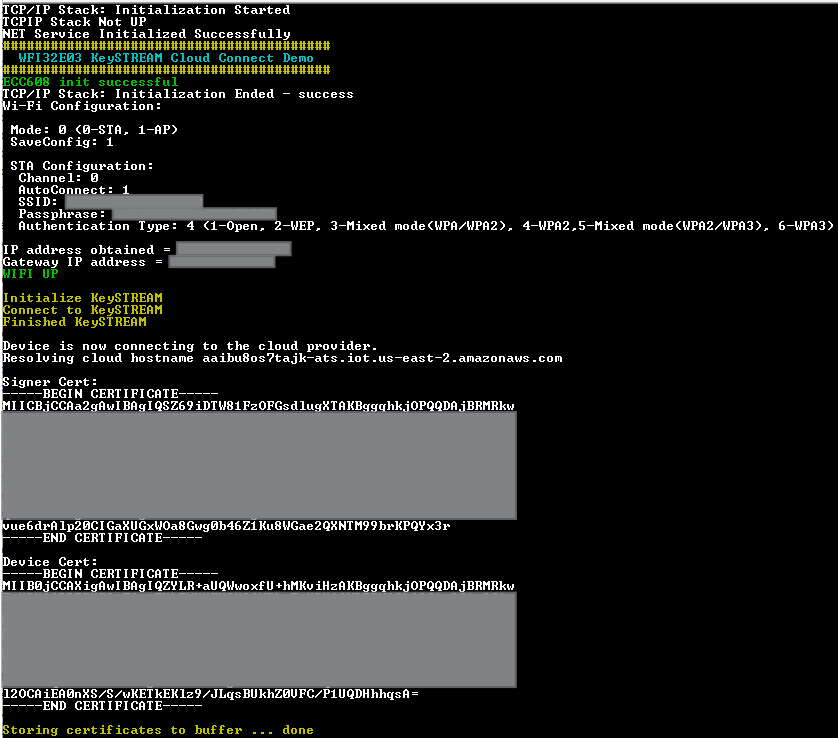
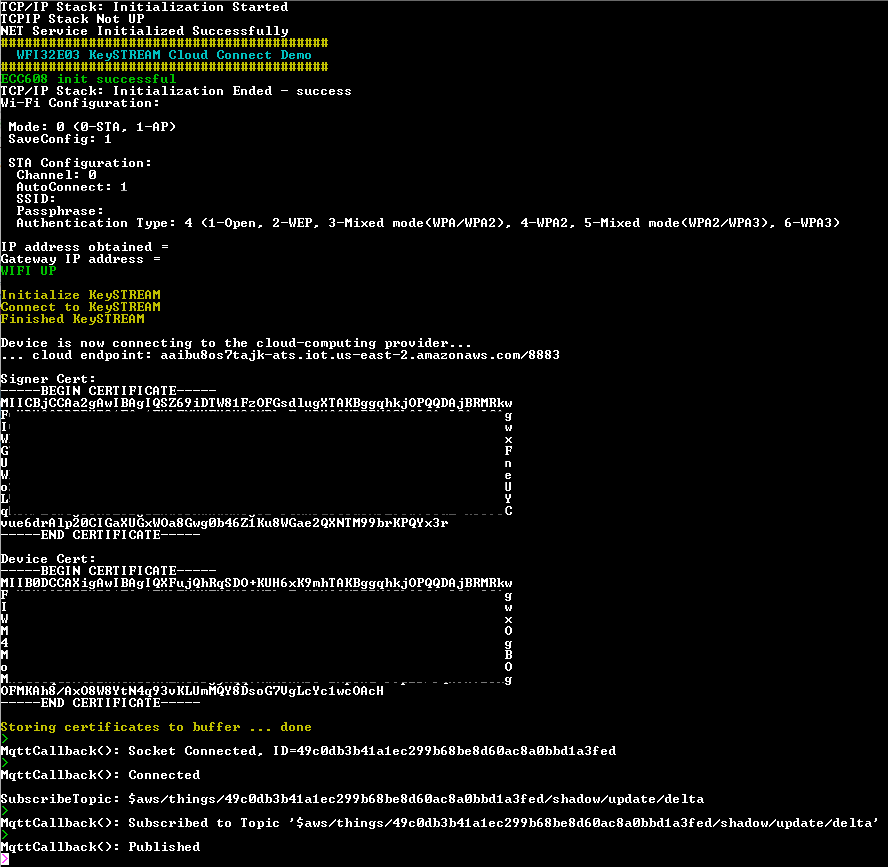
added new pictures updated documentation

Changed region(s): [[0.0, 0.0, 1.0, 1.0], [0.5895, 0.2493, 0.9308, 0.3117], [0.9308, 0.2805, 0.9928, 0.3117]]

diff --git a/README.md b/README.md
@@ -32,6 +32,7 @@ Checkout the <a href="https://microchipsupport.force.com/s/" target="_blank">Tec
 - [Software Setup](#software-setup)
     - [Development Tools](#development-tools)
     - [MCC Content Library](#mcc-content-library)
+    - [MQTT-Explorer](#mqtt-explorer)
     - [others](#others)
 - [Firmware](#firmware)
 - [Run the Demo](#run-the-demo)
@@ -40,12 +41,13 @@ Checkout the <a href="https://microchipsupport.force.com/s/" target="_blank">Tec
 
 ## Introduction
 
-This application demonstrates the usage of the WFI32E03 in a Public Key Infrastructure (PKI) based environemnt to ensure secure communication and data protection to Amazon Web Services (AWS). This is achieved by means of Microchip's TrustMANAGER and Kudelski's keySTREAM Trusted Agent (KTA).<br>
+This application demonstrates the usage of the WFI32E03 in a Public Key Infrastructure (PKI) based environemnt to ensure secure communication and data protection to Amazon Web Services (AWS). This is achieved by means of Microchip's TrustMANAGER and Kudelski's keySTREAM Trusted Agent (KTA).<br><br>
 <img src="images/Environment.png" width=700 style="display: block; margin: auto; float: center"><br>
 The FreeRTOS&trade; based application will host a TCP client in Wi-Fi STA mode connecting to the Home-AP. To ensure proper Wi-Fi connectivity provide the necessary details, see [here](#firmware).<br> By default, every time the IoT device is powered-up, a TCP client socket connection to Kudelski server will be established either to initially set-up, to confirm or to renew its credentials. Only if the so called in-field provisioning process has been finished successfully, the device is able to establish a secure connection to any cloud-computing provider deploying PKI e.g., Amazon Web Services.<br>
 Subsequent to the provisioning step, the device generates the signer and device certificates and opens a TLS-based TCP client socket to AWS. The required public and private keys used during the protocol handshaking procedure are generated by means of information stored in the TrustMANAGER CryptoAuthentication&trade; secure element.<br>
 Just prior the MQTT based demo is started, the device has to be registered once to AWS. This step is automatically taking place during the very first cloud access.<br>
-In case a successful connection to the MQTT broker has been establisch, the application is subscribing to a specific MQTT-topic, followed by either creating a new or overwriting an existing default device shadow. After that, an internal timer will be started to initiate the LED toggle mechanism. Anytime an LED state change is taking place, a reporting message will be published to the broker and a related change notification must be received from the cloud.<br>
+In case of a successful connection to the MQTT broker has been establisch, the application is subscribing to a specific MQTT-topic, followed by either creating a new or overwriting an existing default device shadow. 
+After that, the application is waiting for incoming MQTT messages to change the state of the onboard LEDs. Anytime an LED state change is taking place, a reporting message will be published to the broker. To control the onboard LEDs use a proper MQTT software running on the PC, e.g. MQTT-Explorer.<br>
 <b>Note:</b> It is recommented to review the following bullet points on the specific account:
 >a) Kudelski<br>
 - <i>My Devices</i>: double-check that the device state is set to "Onboarded"
@@ -70,13 +72,13 @@ In case a successful connection to the MQTT broker has been establisch, the appl
 
 ## Prerequisites
 
+- [Download](https://www.microchip.com/en-us/products/security/trust-platform/tpds) and install the latest version of Microchip Trust Platform Design Suite (TPDS)
 - Create and sign in to [AWS](https://portal.aws.amazon.com/gp/aws/developer/registration/index.html?nc2=h_ct&src=header_signup) account
 - Create and sign in to Kudelski IoT [keySTREAM](https://www.kudelski-iot.com/services-and-systems/microchip) account
-- [Download](https://www.microchip.com/en-us/products/security/trust-platform/tpds) and install Microchip Trust Platform Design Suite (TPDS)
 - Before utilizing the target hardware platform the ECC608-TMNGTLS CryptoAuthentication&trade; security element (<i>TrustMANAGER</i>) needs to be registered at Kudelski IoT keySTREAM initially. Follow the instructions as described in setting up the [ATECC608 TRUST](#atecc608-trust-board) and [CryptoAuth TrustMANAGER](#cryptoauth-trustmanager-board) board. <br>Open the Microchip Trust Platform Design Suite and select <i>Usecases</i>.<br><br>
 <img src="images/Tpds.png" width=400 style="display: block; margin: auto; float: center"><br> Now select <i>"CryptoAuth Trust Platform - TMNG"</i> in the <i>Kit</i> drop-down box and <i>"keySTREAM&trade; In-field Provisioning"</i> as the <i>Usecase</i>.<br><br>
-<img src="images/Usecases.png" width=400 style="display: block; margin: auto; float: center"><br>In the next dialog click the first <i>Pre-Config instruction</i> to generate the Manifest file for the ATECC608 secure element. The second step requires device related information from Kudelski IoT keySTREAM and AWS. Use the <i>Usecase Help</i> button and follow the guidance to create and gather the necessary data.<br>
-<img src="images/UsecaseHelp.png" width=500 style="display: block; margin: auto; float: center"><br> Finish the remaining steps 3 to 6. On success, close TPDS and open the MPLAB X project separately.<br> Now follow the instructions as described in setting up the [PIC32 WFI32 2.0 Curiosity board](#pic32-wfi32-20-curiosity-board).
+<img src="images/Usecases.png" width=400 style="display: block; margin: auto; float: center"><br>In the next dialog execute the <i>Pre-Config instruction</i> steps one by one. At first, generate the Manifest file for the ATECC608 secure element. The second step requires device related information from Kudelski IoT keySTREAM and AWS. Finish the remaining steps 3 to 6. On success, close TPDS and open the MPLAB X project separately.<br> Now follow the instructions as described in setting up the [PIC32 WFI32 2.0 Curiosity board](#pic32-wfi32-20-curiosity-board).<br><b>Note:</b> It is recommented to watch the [tutorial video](https://www.youtube.com/watch?v=7_13wIr6eRU&t=2s) and/or to use the <i>Usecase Help</i> button and follow the guidance, e.g. to create AWS <i>things</i> and to gather necessary data.<br>
+<img src="images/UsecaseHelp.png" width=500 style="display: block; margin: auto; float: center"><br>
 
 [TOP](#contents)
 
@@ -137,6 +139,63 @@ In case a successful connection to the MQTT broker has been establisch, the appl
 | CMSIS_5 | v5.9.0 |
 | CMSIS-FreeRTOS | v11.0.1 |
 
+#### <u>MQTT-Explorer</u>
+
+- Create AWS IoT Security Policy:
+  - AWS &rarr;  IoT Core &rarr; Security &rarr; Policies &rarr; Create policy
+  - Enter a policy name, for example <i>WFI32E03_control_LEDs_Policy</i>
+  - Set the minimal policy statements via the Builder or use JSON format such as:<br>
+    ```xml
+    {
+      "Version": "2012-10-17",
+      "Statement": [
+      {
+        "Effect": "Allow",
+        "Action": "iot:Connect",
+        "Resource": "arn:aws:iot:us-east-2:381492211849:client/${iot:Connection.Thing.ThingName}"
+      },
+      {
+        "Effect": "Allow",
+        "Action": "iot:Publish",
+        "Resource": "*"
+      },
+      {
+        "Effect": "Allow",
+        "Action": "iot:Subscribe",
+        "Resource": "*"
+      },
+      {
+        "Effect": "Allow",
+        "Action": "iot:Receive",
+        "Resource": "*"
+      },
+      {
+        "Effect": "Allow",
+        "Action": [
+          "iot:GetThingShadow",
+          "iot:UpdateThingShadow"
+        ],
+        "Resource": "*"
+      }
+    ]
+    }
+    ```
+- Create AWS IoT Thing:
+  - AWS &rarr;  IoT Core &rarr; All devices &rarr; Things &rarr; Create things &rarr; Create single thing
+  - Enter a thing name, for example <i>WFI32E03_control_LEDs</i> and select <i>No shadow</i> as the device shadow
+  - Choose <i>Auto-generate a new certificate (recommended)</i>
+  - Selected the desired policy and create the thing
+  - <b>Importent: One time possibility to download all certificates and keys!</b>
+- Set-up MQTT-Explorer:
+  - Enter a connection name and make sure the settings are the same as shown below<br>
+<img src="images/MqttExplorer_Connect.png" style="width: 500; display: left; margin: auto;">
+  - Choose <i>ADVANCED</i> and add # to subscribe to all MQTT topics
+  - The <i>MQTT Client ID</i> must be same as used as AWS thing name, e.g. <i>WFI32E03_control_LEDs</i><br>
+<img src="images/MqttExplorer_Advanced.png" style="width: 500; display: left; margin: auto;">
+  - Choose <i>CERTIFICATES</i> and select the previously downloaded certificates and key<br>
+<img src="images/MqttExplorer_Certificates.png" style="width: 500; display: left; margin: auto;">
+- Establish a test connection to Amazon Web Services<br>
+
 #### <u>others</u>
   - Microchip Trust Platform Design Suite (TPDS)
   - Serial Terminal application like TERA TERM
@@ -145,47 +204,50 @@ In case a successful connection to the MQTT broker has been establisch, the appl
 
 ## Firmware
 
-This application repository should be cloned/downloaded to perform the following steps.
-- Open the local project file <i>pic32mz_w1_curiosity_freertos.X</i> in MPLAB® X IDE.
-- The Harmony MCC <i>Project Graph</i>'s below depicts the components utilized in this project.<br>
+The firmware repository should be cloned/downloaded to perform the following steps:
+- Check file <i>tmg_conf.c</i> of local TPDS user folder, e.g. C:\\Users\\xxx\\.trustplatform\keystream_connect\\, being already updated and containing the personal Wi-Fi settings, keySTREAM UID and the cloud endpoint is correct. If not, update manually or use TPDS and execute the <i>Pre-Config instruction</i> steps, as described in chapter [Prerequisites](#prerequisites).
+- If file <i>tmg_conf.c</i> is up-to-date, copy from local TPDS user folder to the cloned/downloaded project folder and replace the existing file
+- Open the local project file <i>pic32mz_w1_curiosity_freertos.X</i> in MPLAB® X IDE and <i>Set as Main Project</i>
+- Clean and build the project
+- Connect the Debugger as described [here](#mplab-pickit-4-in-circuit-debugger)
+- Program the device either for debugging or production<br>
+  
+The Harmony MCC <i>Project Graph</i>'s below depicts the components utilized in this project:<br><br>
 <img src="images/System_Configuration.png" width=600 style="display: block; margin: auto; float: center">
 <img src="images/Root_Configuration.png" width=600 style="display: block; margin: auto; float: center"><br>
-- For Wi-Fi connectivity: Insert the credentials either by means of selecting the <i>WIFI SERVICE</i> in the MCC Project Graph <b>or</b> editing file <i>configuration.h</i> directly. Make sure the router is connected to the internet.<br>
-<img src="images/WifiService_Credentials.png" width=450 style="display: block; margin: auto; float: center">
-<img src="images/WifiService_Credentials_Header.png" width=450 style="display: block; margin: auto; float: center"><br>
-- Configure the Net service.<br>
-<img src="images/NetService_Configuration.png" width=500 style="display: block; margin: auto; float: center">
-- Configure the ATECC608.<br>
-<img src="images/Atecc608_Configuration.png" width=500 style="display: block; margin: auto; float: center">
-- Insert the <i>Fleet Profile Public ID</i> as entered during the <i>Create Fleet Profile</i> process.<br>
-<img src="images/KtaLib_Configuration.png" width=500 style="display: block; margin: auto; float: center">
-- Configure the MQTT service. As SSID enter "aaibu8os7tajk-ats.iot.us-east-2.amazonaws.com"<br>
-<img src="images/MqttService_Configuration.png" width=500 style="display: block; margin: auto; float: center">
-- Configure the Core - Crypto Authentication library.<br>
-<img src="images/CryptoAuthLibrary_Configuration1.png" width=500 style="display: block; margin: auto; float: center">
-<img src="images/CryptoAuthLibrary_Configuration2.png" width=500 style="display: block; margin: auto; float: center"><br>
-- Configure the wolfCrypt and wolfSSL library.<br>
-<img src="images/wolfCryptLibrary_Configuration.png" width=450 style="display: block; margin: auto; float: center">
-<img src="images/wolfSslLibrary_Configuration.png" width=320 style="display: block; margin: auto; float: center">
-- Configure the on-board LEDs.<br>
-<img src="images/Led_Configuration.png" width=700 style="display: block; margin: auto; float: center"><br>
-- Clean and build the project. To run the project, select "Make and program device" button.<br><br>
+  <br>
 <b>Note:</b> Anytime changing the settings by means of the MCC <i>Project Graph</i> press button <i>Generate</i>, located within the <i>Project Resources</i> window, to apply that changes into the code. Take special care when merging with existing code.<br>
   
 [TOP](#contents)
 
 ## Run the Demo
 
-The application prints the following information to the connected terminal.<br>
-<img src="images/TerminalOut_KeyStream.png" style="width: 500; display: left; margin: auto;">
-<img src="images/TerminalOut_KeyStream_Refurbed.png" style="width: 350; display: left; margin: auto;">
+At first, establish a connection to AWS via MQTT-Explorer. Now power-up the <i>PIC32 WFI32 2.0 Curiosity Board</i> and wait for a successful connection to AWS as well as a successful MQTT message publication. The application should print the following information to the connected terminal.<br><br>
+<img src="images/TerminalOut_KeyStream.png" style="width: 500; display: left; margin: auto;"><br><br>
+In case the device has been renewed or refurbished an intermediate step is printed additionally.<br><br>
+<img src="images/TerminalOut_KeyStream_Refurbed.png" style="width: 350; display: left; margin: auto;"><br><br>
+On successful device connection to AWS, MQTT-Explorer shows the received messages, but only previously subscribed to, related to the specific issuer. <br><br>
+<img src="images/MqttExplorer_DeviceDefaultState.png" style="width: 500; display: left; margin: auto;"><br>
+
+To control a certain LED set its <i>desired</i> state to either <b>on</b> or <b>off</b>. It is possible to modify and publish only one but also both states at the same time. Subsequently find some examples, which can be copied and entered in the editor part of the <i>Publish</i> section of MQTT-Explorer.<br>
+```yaml
+{"state":{"desired":{"greenLED": "on"}}}
+{"state":{"desired":{"redLED": "on","greenLED": "on"}}}
+{"state":{"desired":{"redLED": "off"}}}
+{"state":{"desired":{"redLED": "on","greenLED": "off"}}}
+```
+<br>Take care, to publish messages to <i>$aws/things/<b>deviceID</b>/shadow/update</i>.<br><br>
+<img src="images/MqttExplorer.png" style="width: 500; display: left; margin: auto;"><br><br>
+Device' terminal printings during MQTT message exchange.<br><br>
 <img src="images/TerminalOut_MQTT.png" style="width: 500; height:415; display: right; margin: auto"><br>
 
 [TOP](#contents)
 
 ## Links
 
-download Microchip [Trusted Platform Design Suite (TPDS)](https://www.microchip.com/en-us/products/security/trust-platform/tpds)<br>
-[Amazon Web Services (AWS)](https://console.aws.amazon.com/console/home?nc2=h_ct&src=header-signin) login<br>
-Kudelski IoT [keySTREAM](https://www.kudelski-iot.com/services-and-systems/microchip) open account<br><br>
+- Microchip [TrustManager](https://www.microchip.com/en-us/products/security/trust-platform/trustmanager)<br>
+- download Microchip [Trusted Platform Design Suite (TPDS)](https://www.microchip.com/en-us/products/security/trust-platform/tpds)<br>
+- [Amazon Web Services (AWS)](https://console.aws.amazon.com/console/home?nc2=h_ct&src=header-signin) login<br>
+- Kudelski IoT [keySTREAM](https://www.kudelski-iot.com/services-and-systems/microchip) open account<br>
+- Video Tutorial ["How to Set up the ECC608 TrustMANAGER with keySTREAM from Kudelski IoT"](https://www.youtube.com/watch?v=7_13wIr6eRU&t=2s)<br><br>
 [TOP](#contents)
